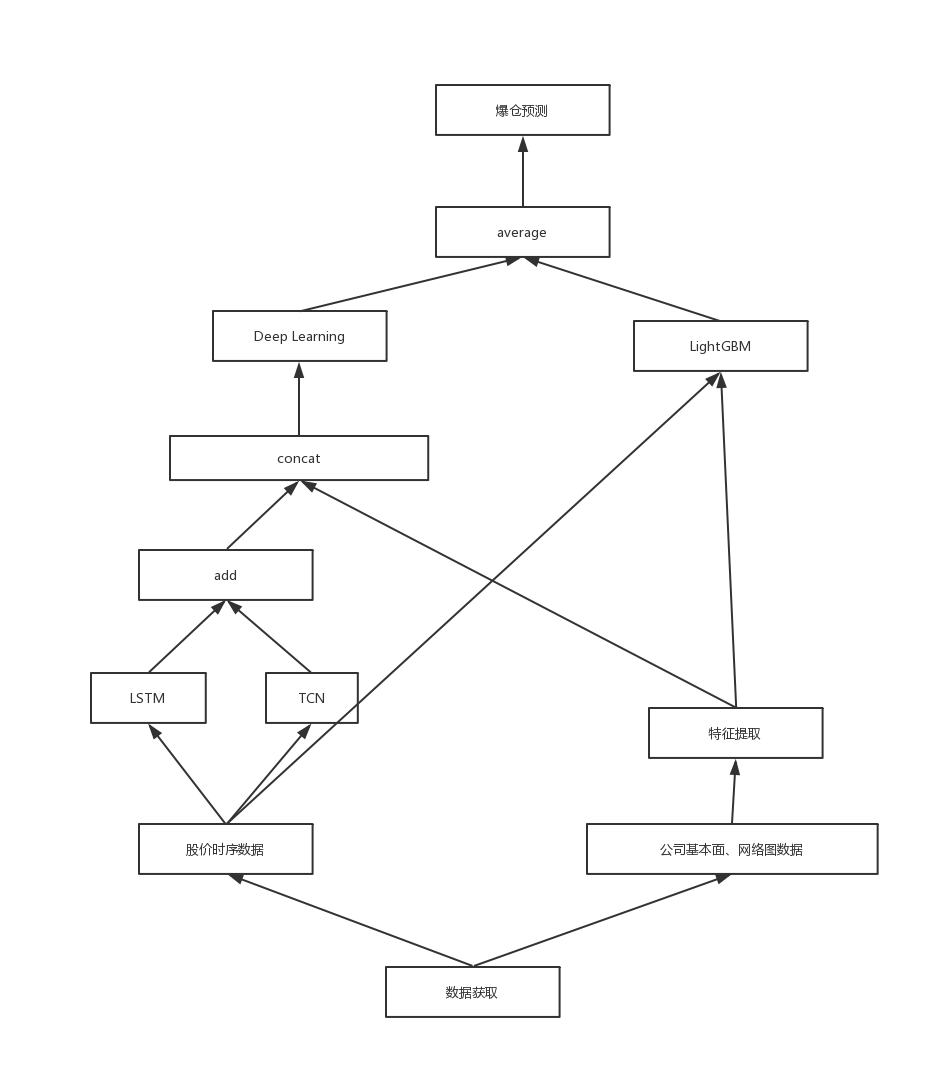
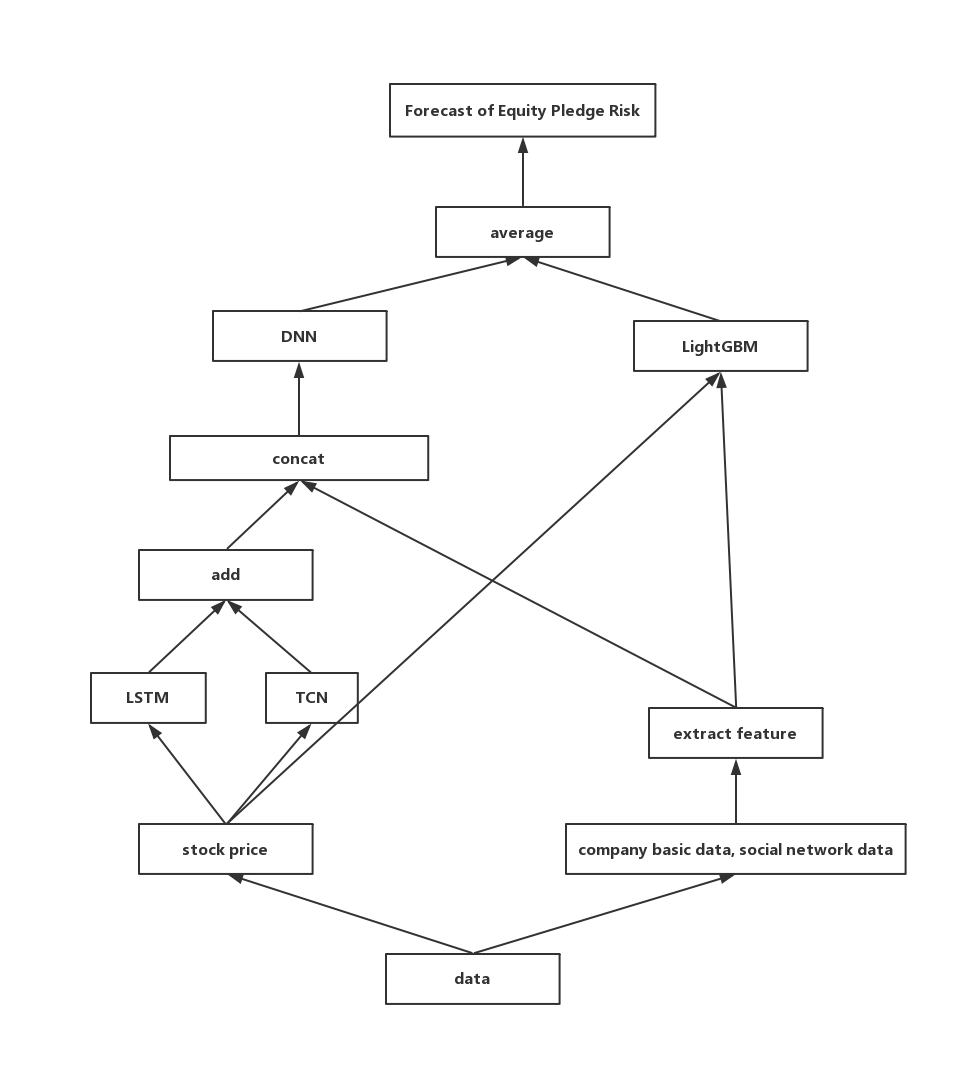
新增了预测模型描述

diff --git a/citicup-model/预测模型架构.md b/citicup-model/预测模型架构.md
@@ -1,0 +1,41 @@
+# 预测模型架构
+
+![](D:\Study\Project\citi_cup\Networker\model\机器学习模型.jpg)
+
+## 模型介绍
+
+### 1、TCN
+
+![tcn](D:\Study\Project\citi_cup\Networker\model\tcn.jpg)
+
+- 具有时间敏感的大感受野
+- 增加因果相关的卷积层
+- 网络可记忆更长远的数据
+- 充分利用GPU加速训练过程
+
+
+
+### 2、LSTM
+
+![lstm](D:\Study\Project\citi_cup\Networker\model\lstm.jpg)
+
+
+
+- 避免RNN的梯度消失问题
+- 可提取数据之间的依赖关系
+
+
+
+### 3、DNN
+
+![resnet](D:\Study\Project\citi_cup\Networker\model\resnet.jpg)
+
+- 使用残差神经网络，缓解网络过深时梯度消失问题
+
+
+
+### 4、LightGBM
+
+-  基于GBDT 梯度增强决策树。
+-  基于 histogram 的决策树算法，相比于另一个主流的算法 pre-sorted（如 xgboost 中的 exact 算法），histogram 在内存消耗和计算代价上都有不少优势。
+- 带有深度限制的按叶子生长 (leaf-wise) 算法。 level-wise 过一次数据可以同时分裂同一层的叶子，容易进行多线程优化，不容易过拟合。

diff --git a/citicup-model/Model Architecture.md b/citicup-model/Model Architecture.md
@@ -1,0 +1,41 @@
+# Model Architecture
+
+![](D:\Study\Project\citi_cup\Networker\model\机器学习模型.jpg)
+
+## Model Introduction
+
+### 1、TCN (Temporal Convolutional Network)
+
+![tcn](D:\Study\Project\citi_cup\Networker\model\tcn.jpg)
+
+- Flexible receptive field size
+- Convolution layers increase causal correlation
+- Convolutions can be done in parallel, thus improve efficiency
+
+
+
+### 2、LSTM (Long Short-Term Memory)
+
+![lstm](D:\Study\Project\citi_cup\Networker\model\lstm.jpg)
+
+
+
+- Avoiding the problem of gradient disappearing in RNN
+- Extracting dependencies between time series data
+
+
+
+### 3、DNN
+
+![resnet](D:\Study\Project\citi_cup\Networker\model\resnet.jpg)
+
+- using residual neural network
+- mitigating the problem of gradient disappearing when the network is too deep
+
+
+
+### 4、LightGBM
+
+-  based on Gradient Boosting Decision Tree (GBDT)
+-  LightGBM uses histogram-based algorithms. This speeds up training and reduces memory usage
+- Leaf-wise tree growth algorithms with max depth limitation, which avoiding over-fit
